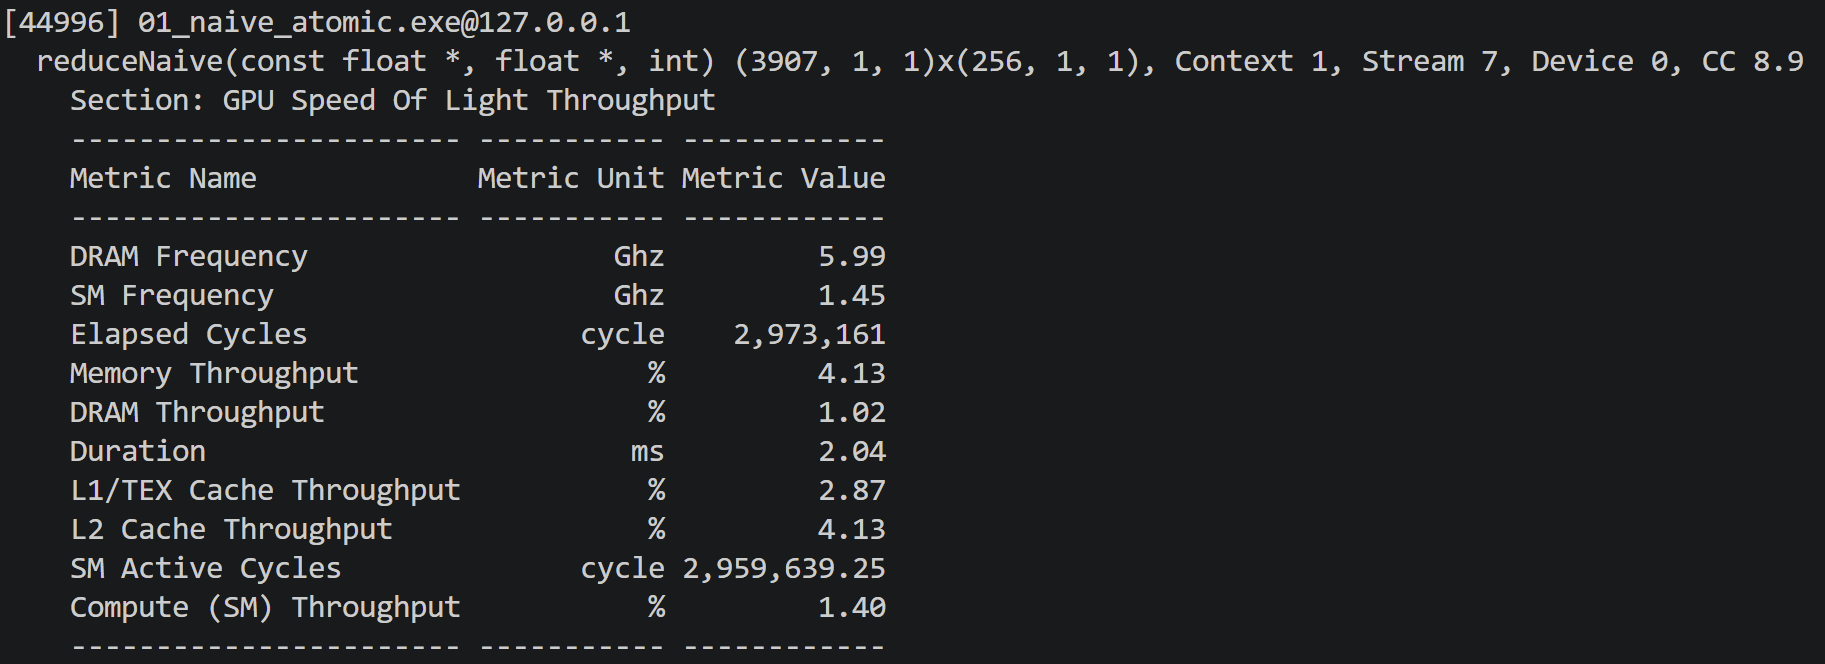
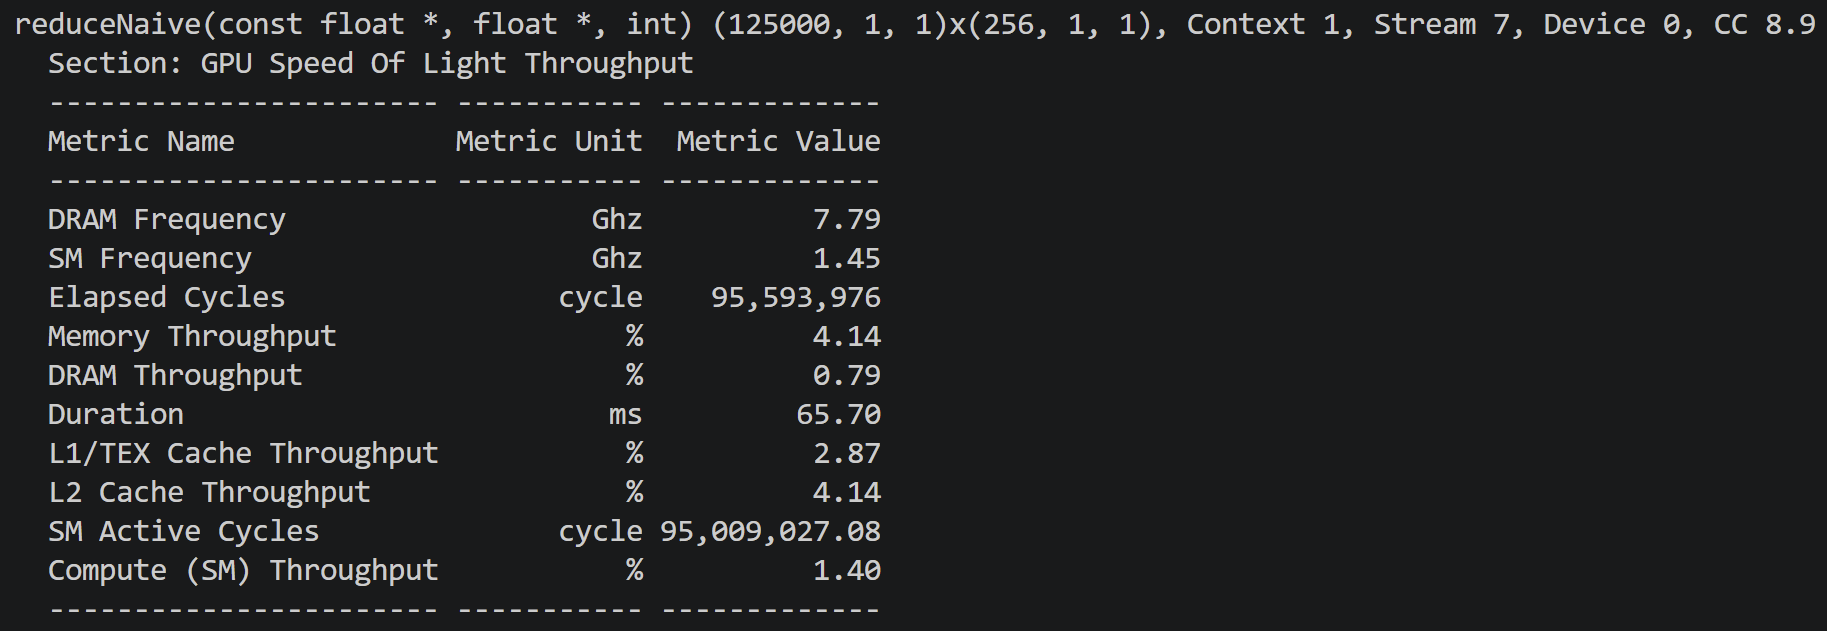
Update to 32M benchmarks; reframe stage 4 as null result; add ncu screenshots in README

diff --git a/README.md b/README.md
@@ -27,6 +27,7 @@ Every thread does one `atomicAdd` to a single global address. An atomic is an in
 read-modify-write, so the hardware serializes all ~32M of them on that one location — a
 queue millions deep. The "parallelism" is illusory.
 
+![Stage 1 Nsight profile: DRAM 0.8%, compute stalled on atomic contention](images/stage1_naive.png)
 The profiler shows the damage starkly: **DRAM 0.8%, compute 1.4%** — the GPU does almost
 nothing but wait in the atomic queue. This is contention in its purest form, and it gets
 *relatively worse* as the array grows, which is why the eventual speedup is so large.
@@ -37,6 +38,8 @@ Each block reduces its own elements privately in `__shared__` memory (on-chip, ~
 using a tree — 256 → 128 → 64 → … → 1 in log₂(256) = 8 steps — then performs **one** atomic
 per block. Contention drops from ~32M atomics to a few thousand. A `__syncthreads()` after
 each tree step ensures all writes from one step are visible before the next step reads.
+
+![Stage 2 Nsight profile: L1 90%, DRAM only 30% — bottleneck is shared-memory/sync, not bandwidth](images/stage2_shared_tree.png)
 
 **The key diagnostic moment:** intuition says "memory-bound, so DRAM is the limit." The
 profiler disagrees — **L1 at 90%, DRAM at only 30%.** The kernel reads the data once
@@ -56,7 +59,7 @@ blocks) where each thread sums *many* elements from DRAM into a register before 
 for (int idx = i; idx < n; idx += gridSize)
     mySum += in[idx];
 ```
-
+![Stage 3 Nsight profile: DRAM 97% — bandwidth ceiling reached](images/stage3_grid_stride.png)
 Consecutive threads read consecutive addresses (**coalesced** — the warp's 32 loads merge
 into wide transactions), so this streams real DRAM bandwidth. It also shrinks the tree
 dramatically, cutting shared-memory churn and barriers.
@@ -85,7 +88,7 @@ const float4* in4 = reinterpret_cast<const float4*>(in);
 float4 v = in4[idx];
 mySum += v.x + v.y + v.z + v.w;
 ```
-
+![Stage 4 Nsight profile: DRAM 97%, identical to stage 3 — float4 gave no gain](images/stage4_float4_vec.png)
 **This produced no measurable improvement** — DRAM 97.31% vs 97.22%, identical duration.
 And that is the point. Grid-stride coalesced loading had *already* saturated DRAM bandwidth,
 so wider per-thread loads have no headroom: you cannot push more through a bus that is
